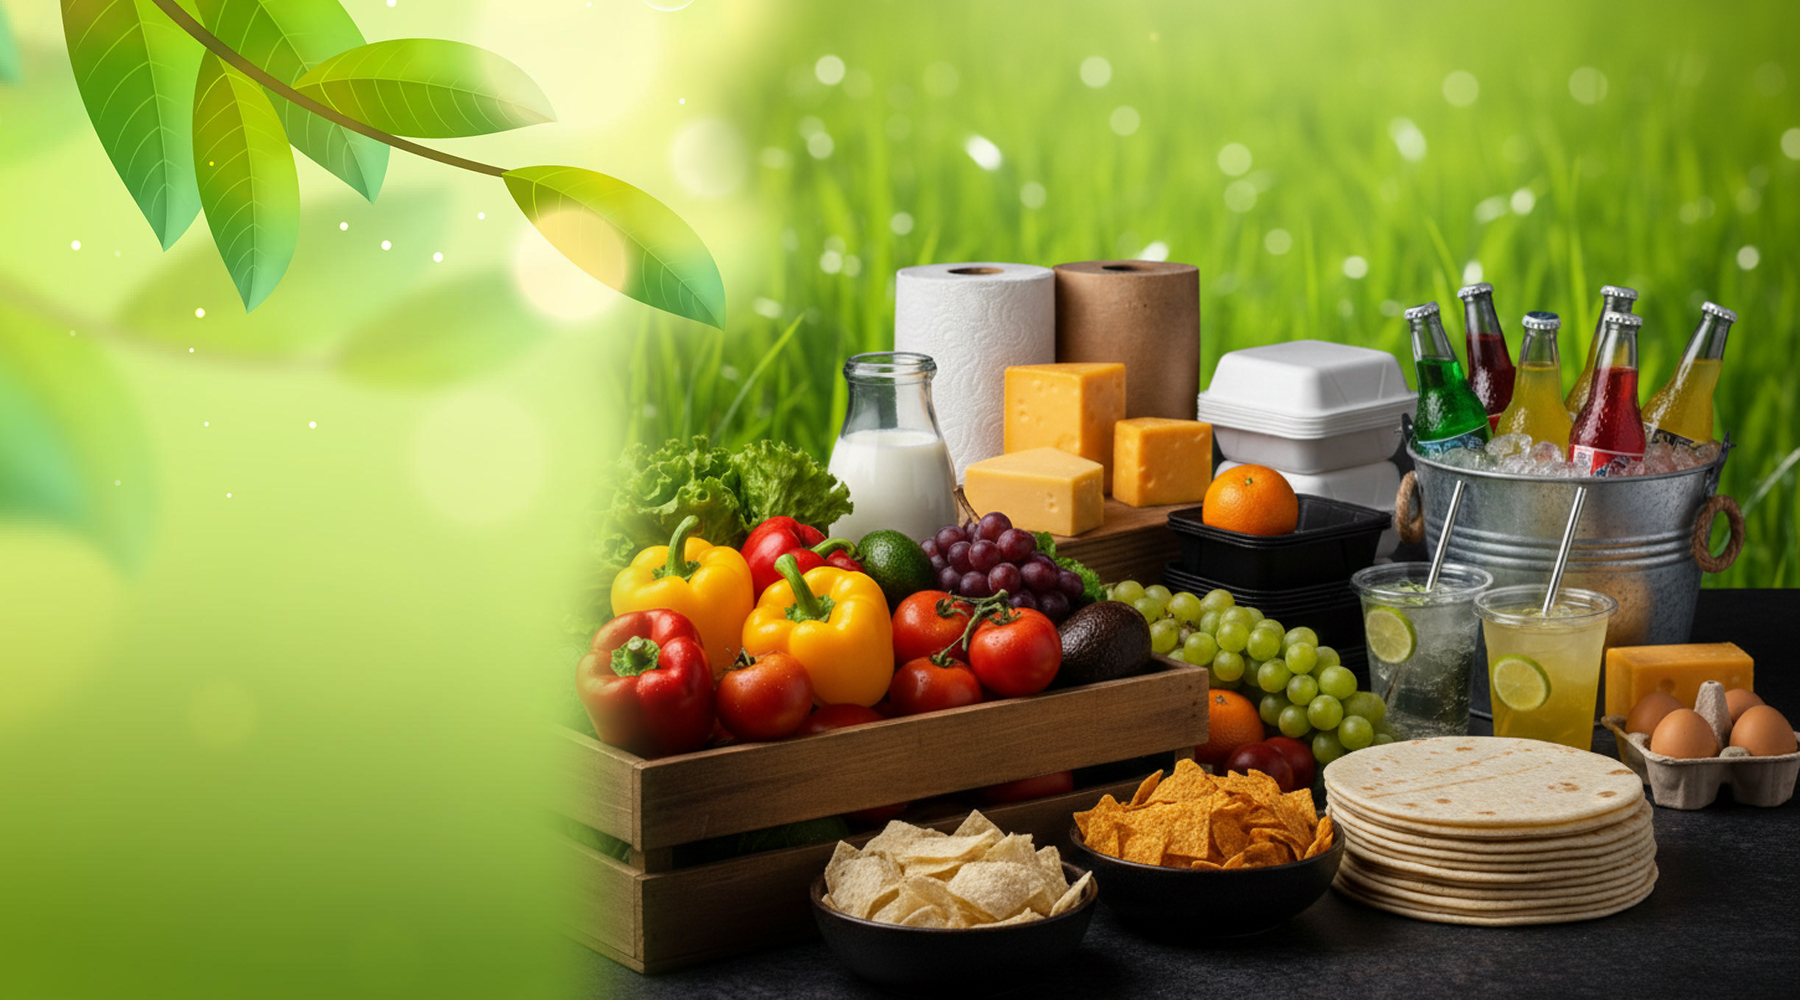
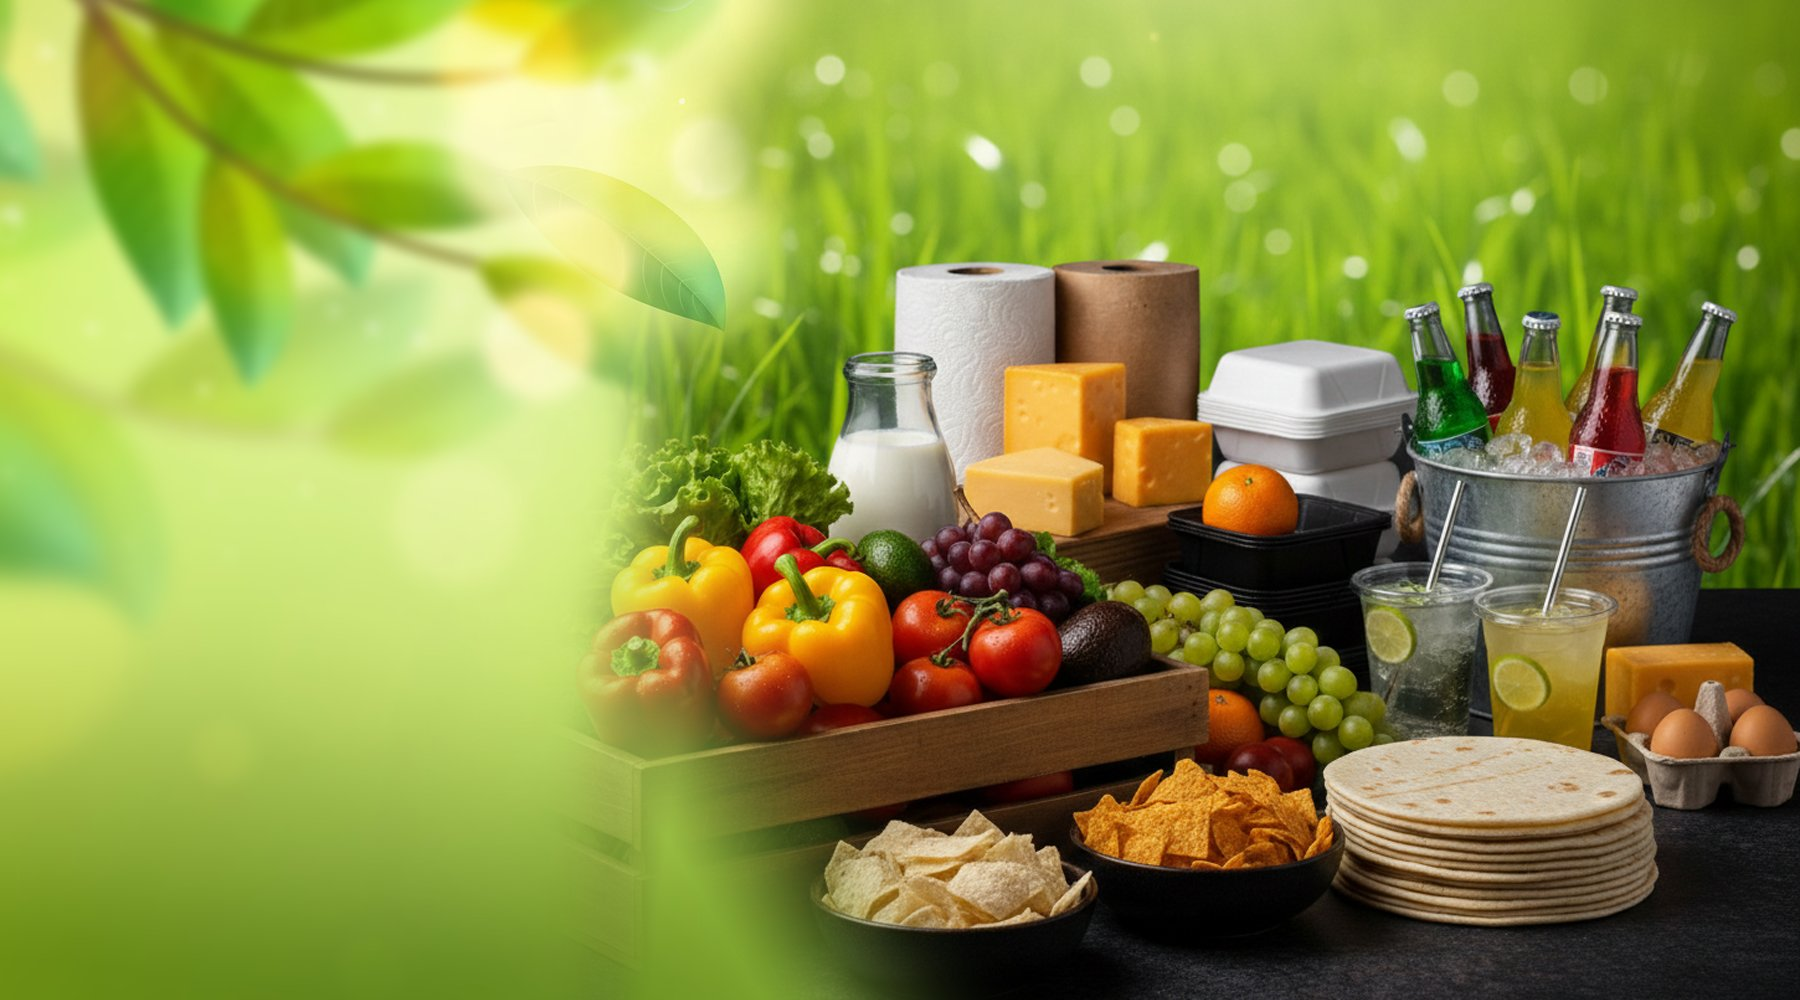
changes

diff --git a/data/index.ts b/data/index.ts
@@ -166,7 +166,7 @@ export const HOME_SECTIONS = {
     description:
       "Reliable delivery of fresh produce and essential foodservice products for restaurants and commercial kitchens across the GulfCoast.",
     badge: "Serving restaurants, food trucks, and commercial kitchens",
-    image: "/3.jpeg",
+    image: "/hero-edited.jpg",
   },
   serve: [
     {
